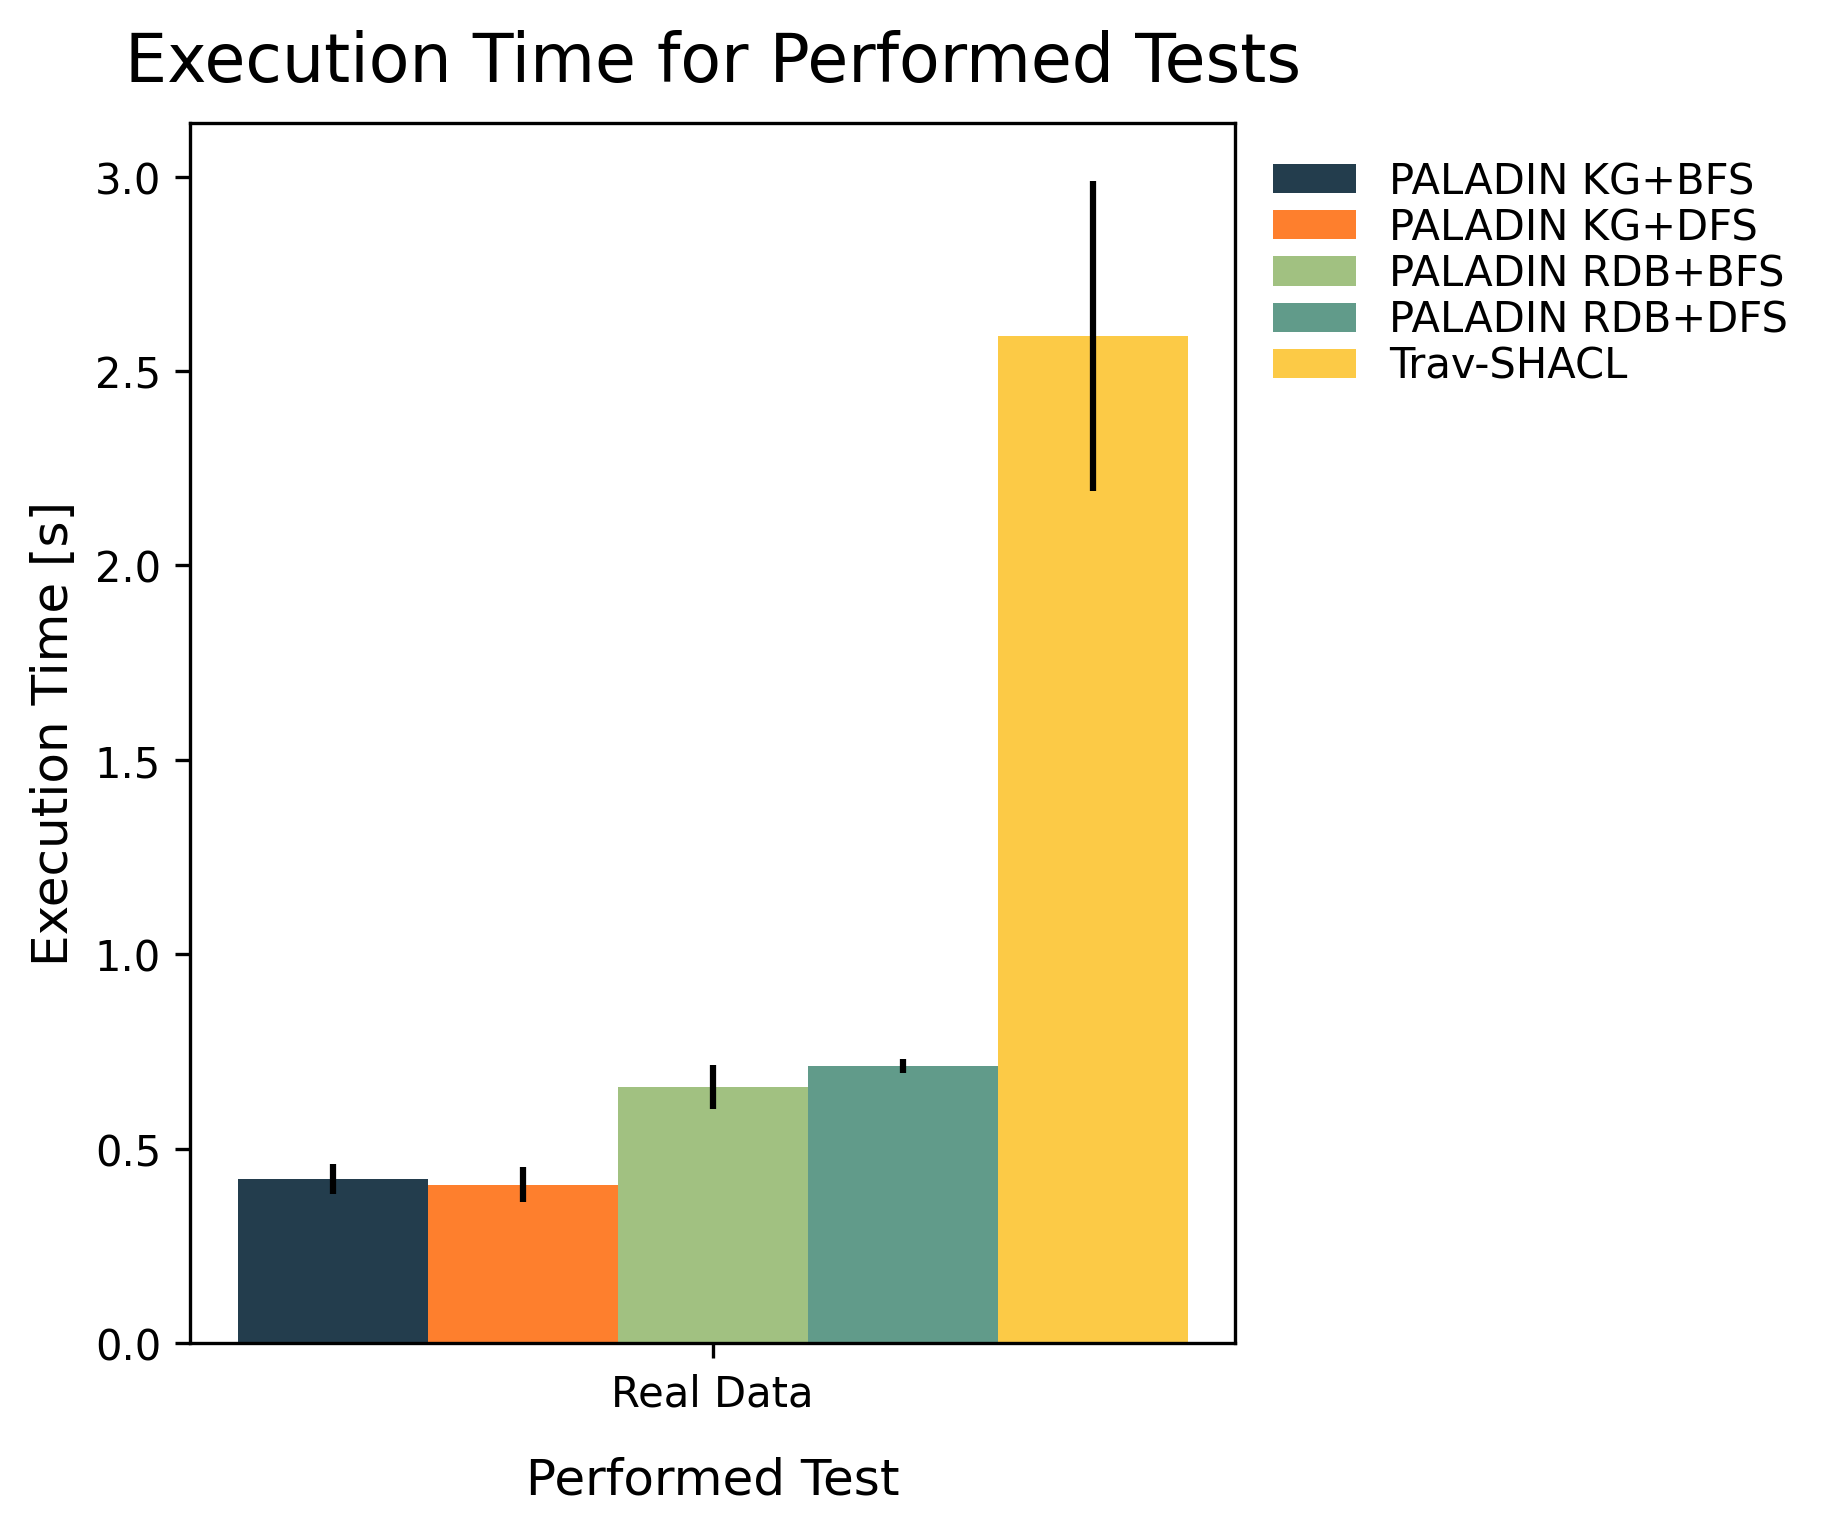
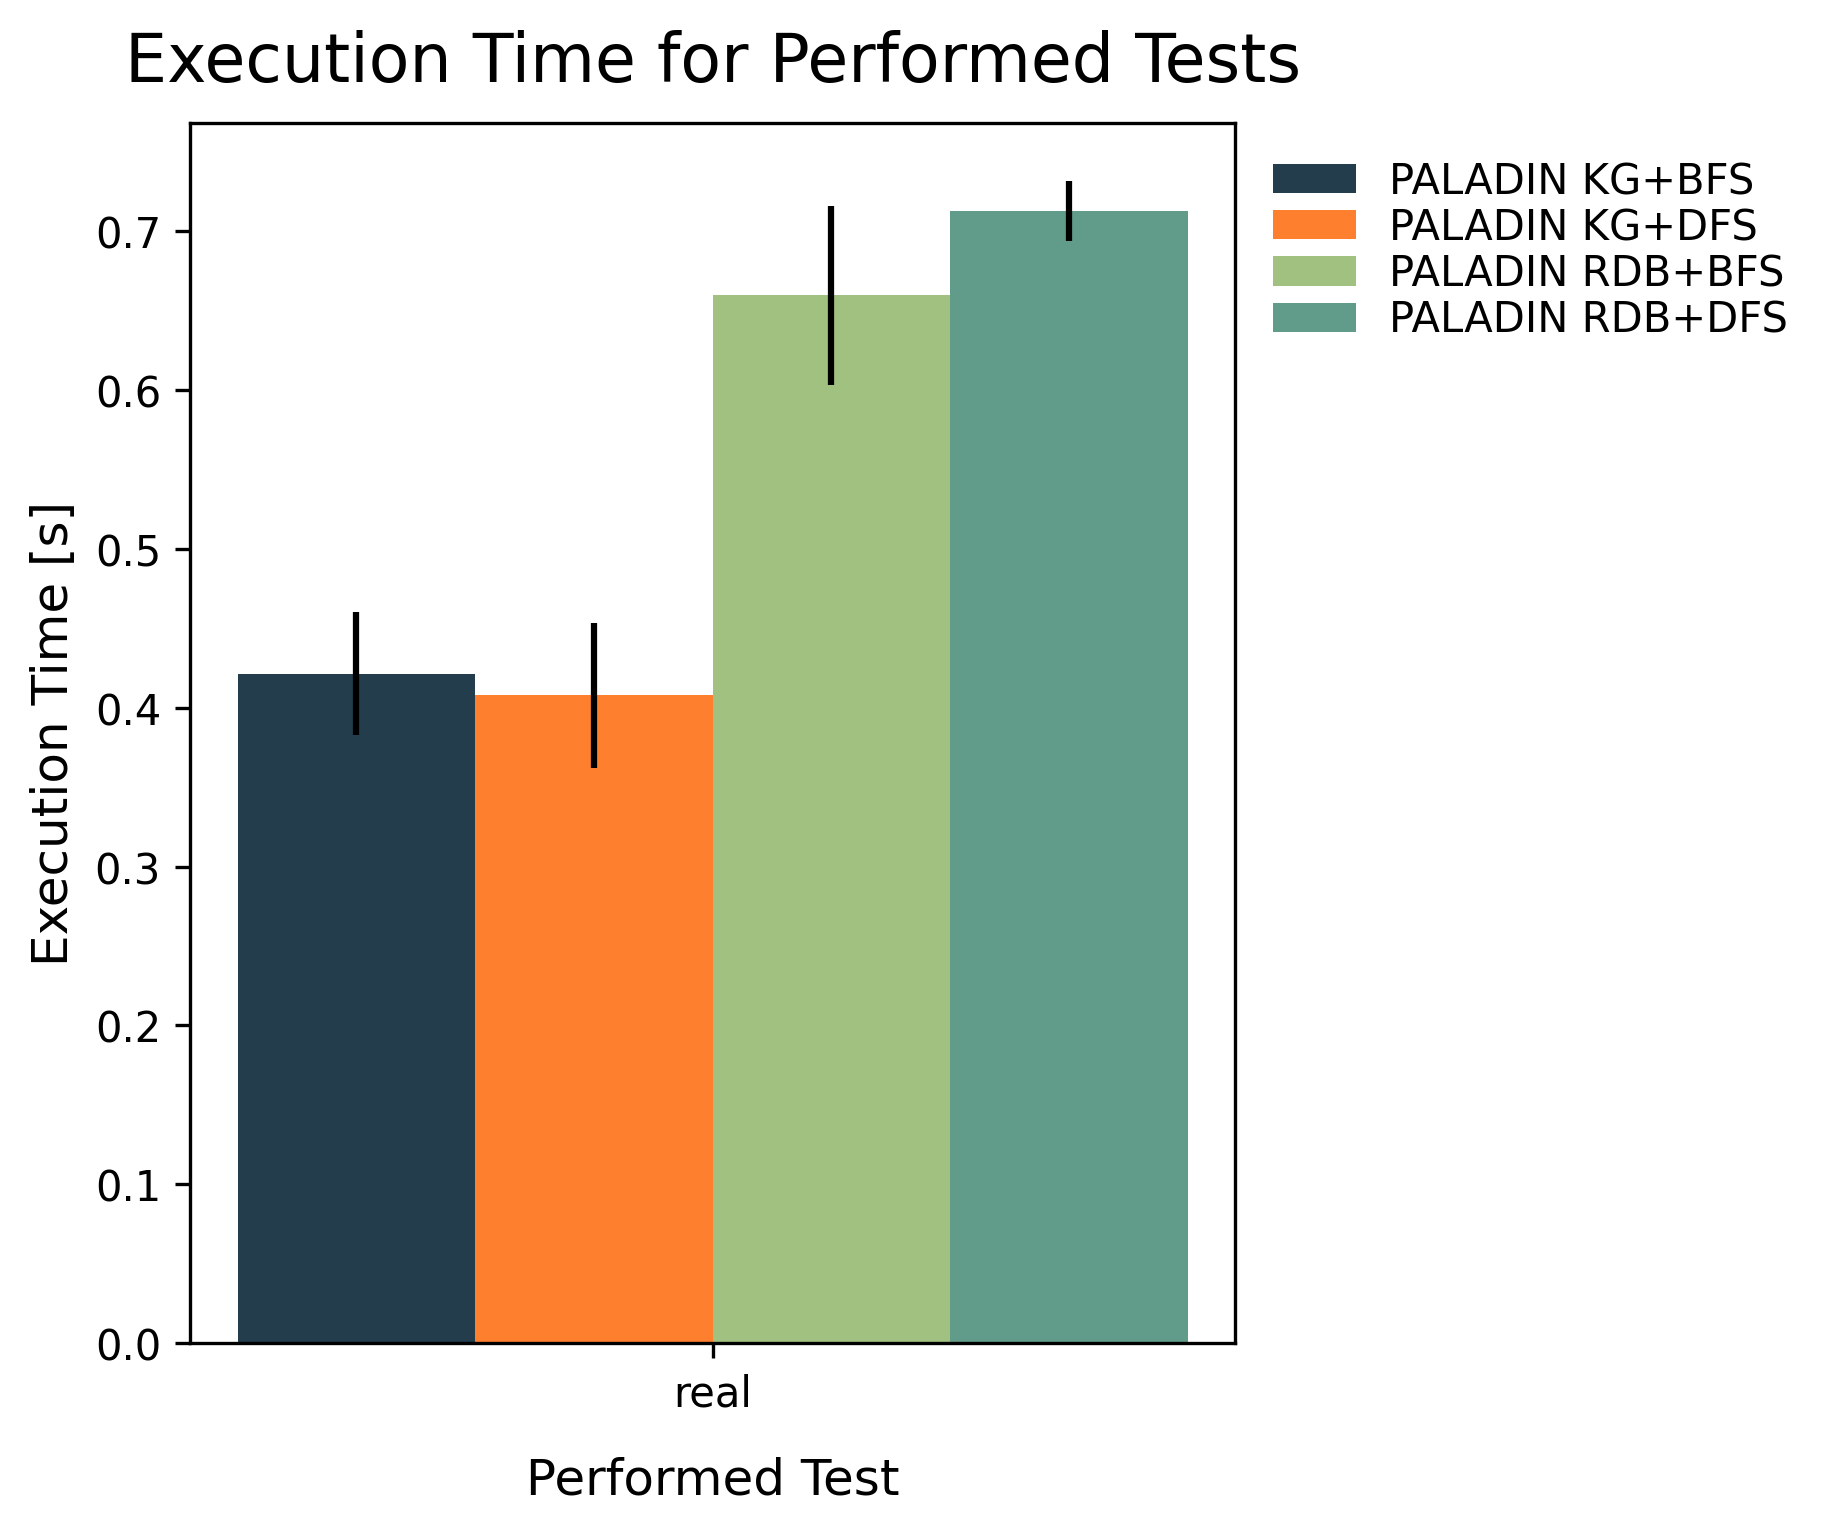
update README.md
update the results of the experiments

diff --git a/README.md b/README.md
@@ -64,9 +64,9 @@ The data sets varying in the data quality are called _clean_, _mid_, and _dirty_
 
 __PALADIN Schemas.__ The performance of PALADIN is evaluated using a PALADIN schema representing the treatment guideline for breast cancer patients with an amplified HER2 gene.
 The schema contains 15 shapes and is imbalanced.
-For the scalability study, three different PALADIN schemas are evaluated.
+For the scalability study, seven different PALADIN schemas are evaluated.
 They all divide the population based on ranges over the ID and differ in the number of nodes in the schema.
-The evaluated schemas contain 64, 256, and 1024 nodes, respectively.
+The evaluated schemas contain 16, 32, 64, 128, 256, 512, and 1024 nodes, respectively.
 
 __Configurations.__ Two different data formats are considered in the experimental study: (i) relational database (RDB), and (ii) RDF-based knowledge graph (KG).
 Additionally, the traversal strategies BFS and DFS are evaluated.
@@ -77,15 +77,18 @@ This results in four configurations:
 3. KG+BFS
 4. KG+DFS
 
-In the case of the real-world data, PALADIN is compared to Trav-SHACL [3], a state-of-the-art SHACL validator.
-For the comparison with SHACL, 15 artificial classes representing the entities in all the shapes are added to the real-world KG.
+In the case of the real-world data, PALADIN is compared to Trav-SHACL [3], a state-of-the-art SHACL validator, as well as Shaclex [4] and PyShEx [5], two ShEx validators.
+For the comparison with SHACL and ShEx, 15 artificial classes representing the entities in all the shapes are added to the real-world KG.
+For constraints that compare the value of two different properties, the constraint satisfaction is materialized.
+This is due to the fact that such constraints cannot be expressed in ShEx.
+In the case of SHACL, a SPARQL-based constraint would be required.
 
 __Metrics.__ The following metrics are reported:
 
 1. __Average Validation Time:__ Average time in seconds that are needed to validate the PALADIN schema.
 2. __Standard Deviation of the Validation Time__: Standard deviation of the time required to validate the PALADIN schema. 
-3. __dief@t:__ Continuous efficiency in the first _t_ time units [4].
-4. __dief@k__ Continuous efficiency while producing the first _k_ results [4].
+3. __dief@t:__ Continuous efficiency in the first _t_ time units [6].
+4. __dief@k__ Continuous efficiency while producing the first _k_ results [6].
 
 __Experimental Setup.__ The main PALADIN schema is evaluated with all four configurations over all 20 data sets.
 The three scalability schemas are evaluated with all PALADIN configurations over the data set _Mid Large_.
@@ -109,30 +112,38 @@ The entire experimental environment is dockerized and available in [1].
 <figure>
   <img src="images/dieft_real.png" alt="dief@t for Real Data">
   <figcaption><i>Fig. 4:</i> <b>dief@t for Real Data</b></figcaption>
-</figure><br><br>
+</figure>
+<figure>
+  <img src="images/execution_times_comparison.png" alt="Comparison of PALADIN with SHACL and ShEx">
+  <figcaption><i>Fig. 5:</i> <b>EComparison of PALADIN with SHACL and ShEx over Real Data</b></figcaption>
+</figure>
+<br><br>
 
-Figs. 2-4 present the results over the real-world data.
-PALADIN is significantly faster than Trav-SHACL.
+Figs. 2-5 present the results over the real-world data.
 The KG configurations outperform the RDB configurations.
 There is no real difference in the execution time for the two traversal strategies.
 The continuous behavior shows that the RDB configurations generate the first result faster but are slower overall.
+PALADIN is significantly faster than the other approaches.
+Trav-SHACL is the second best engine.
+PyShEx and Shaclex (ShEx) have a similar performance.
+However, validating SHACL with Shaclex, i.e., Shaclex (SHACL), has the worst performance.
 
 #### Synthetic Data
 
 <figure>
   <img src="images/execution_times_synth.png" alt="Execution Time over Synthetic Data">
-  <figcaption><i>Fig. 5:</i> <b>Execution Time over Synthetic Data</b></figcaption>
+  <figcaption><i>Fig. 6:</i> <b>Execution Time over Synthetic Data</b></figcaption>
 </figure>
 <figure>
   <img src="images/dieft_synth.png" alt="dief@t for Synthetic Data">
-  <figcaption><i>Fig. 6:</i> <b>dief@t for Synthetic Data</b></figcaption>
+  <figcaption><i>Fig. 7:</i> <b>dief@t for Synthetic Data</b></figcaption>
 </figure>
 <figure>
   <img src="images/diefk_synth.png" alt="dief@k for Synthetic Data">
-  <figcaption><i>Fig. 7:</i> <b>dief@k for Synthetic Data</b></figcaption>
+  <figcaption><i>Fig. 8:</i> <b>dief@k for Synthetic Data</b></figcaption>
 </figure><br><br>
 
-Figs. 5-7 show the results of the evaluation of the synthetic data.
+Figs. 6-8 show the results of the evaluation of the synthetic data.
 The RDB configurations are faster for small data sets but starting from medium-sized data sets, the KG configurations perform better.
 Again, no significant difference in the overall execution time between the two traversal strategies can be observed.
 For the continuous behavior only the KG configurations are reported.
@@ -144,10 +155,10 @@ This is due to the imbalanced nature of the PALADIN schema as discussed above.
 
 <figure>
   <img src="images/execution_times_scale.png" alt="Execution Time Scalability Study">
-  <figcaption><i>Fig. 8:</i> <b>Execution Time Scalability Study</b></figcaption>
+  <figcaption><i>Fig. 9:</i> <b>Execution Time Scalability Study</b></figcaption>
 </figure><br><br>
 
-Fig. 8 shows that the execution time increases linear with the number of nodes in the PALADIN schema.
+Fig. 9 shows that the execution time increases linear with the number of nodes in the PALADIN schema, i.e., when the complexity of the queries is fixed.
 Due to the nature of the constraint queries (range query over primary key), the RDB configurations outperform the KG configurations.
 
 > [!NOTE]
@@ -162,4 +173,8 @@ Due to the nature of the constraint queries (range query over primary key), the 
 
 [3] Mónica Figuera, Philipp D. Rohde, Maria-Esther Vidal. Trav-SHACL: Efficiently Validating Networks of SHACL Constraints. In _Proceedings of the Web Conference 2021 (WWW '21), April 19-23, 2021, Ljubljana, Slovenia_. [DOI: 10.1145/3442381.3449877](https://doi.org/10.1145/3442381.3449877)
 
-[4] Maribel Acosta, Maria-Esther Vidal, York Sure-Vetter. Diefficiency Metrics: Measuring the Continuous Efficiency of Query Processing Approaches. In _Proceedings of the International Semantic Web Conference, 2017_. [DOI: 10.1007/978-3-319-68204-4_1](https://doi.org/10.1007/978-3-319-68204-4_1)
+[4] Jose Emilio Labra Gayo, Eric Prud'hommeaux, Bogdan Roman, Toni Cebrían, Andrew Berezovskyi. Shaclex v0.2.2. [GitHub: weso/shaclex](https://github.com/weso/shaclex)
+
+[5] Harold Solbrig, Alejandro González Hevia, Vincent Emonet, Egon Willighagen, Josh Moore, Andra Waagmeester, Ben McAlister. PyShEx v0.8.2. [GitHub: hsolbrig/PyShEx](https://github.com/hsolbrig/PyShEx)
+
+[6] Maribel Acosta, Maria-Esther Vidal, York Sure-Vetter. Diefficiency Metrics: Measuring the Continuous Efficiency of Query Processing Approaches. In _Proceedings of the International Semantic Web Conference, 2017_. [DOI: 10.1007/978-3-319-68204-4_1](https://doi.org/10.1007/978-3-319-68204-4_1)
